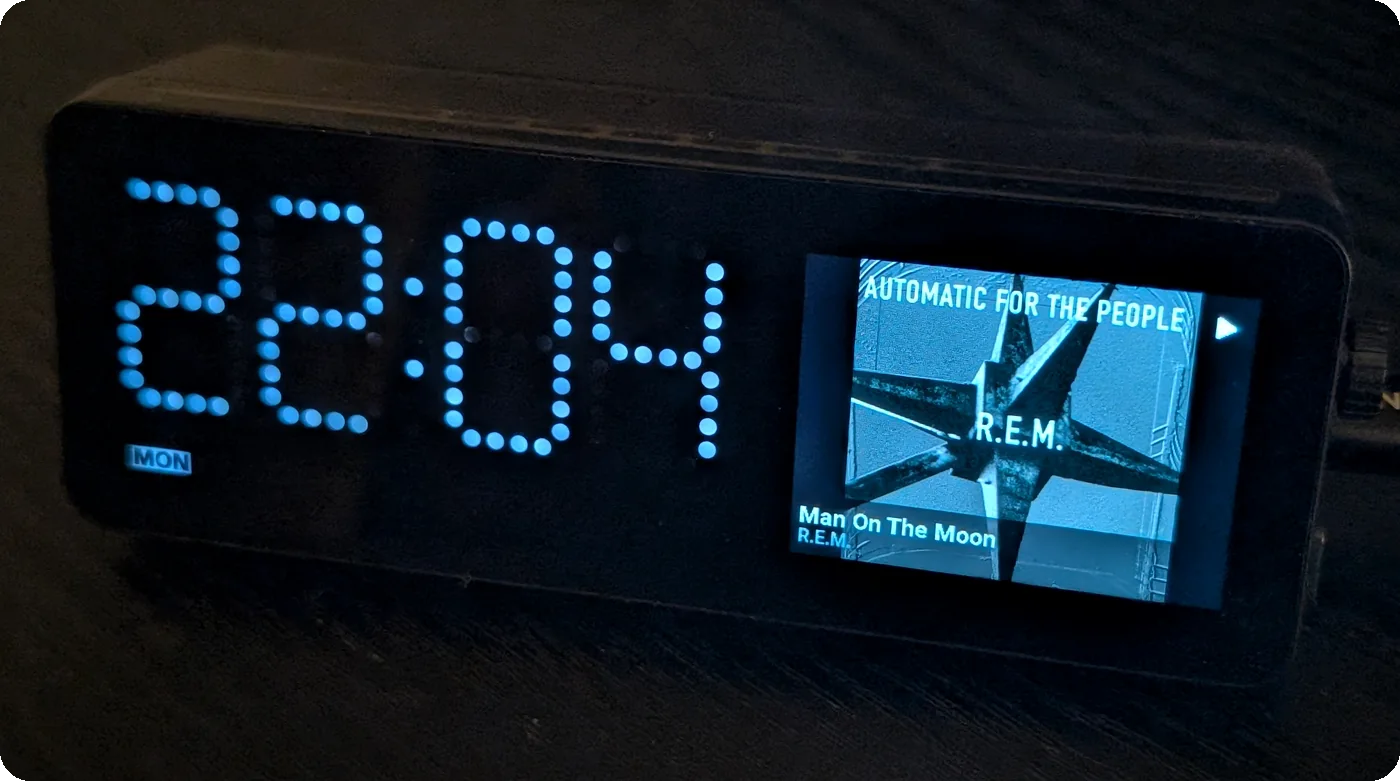
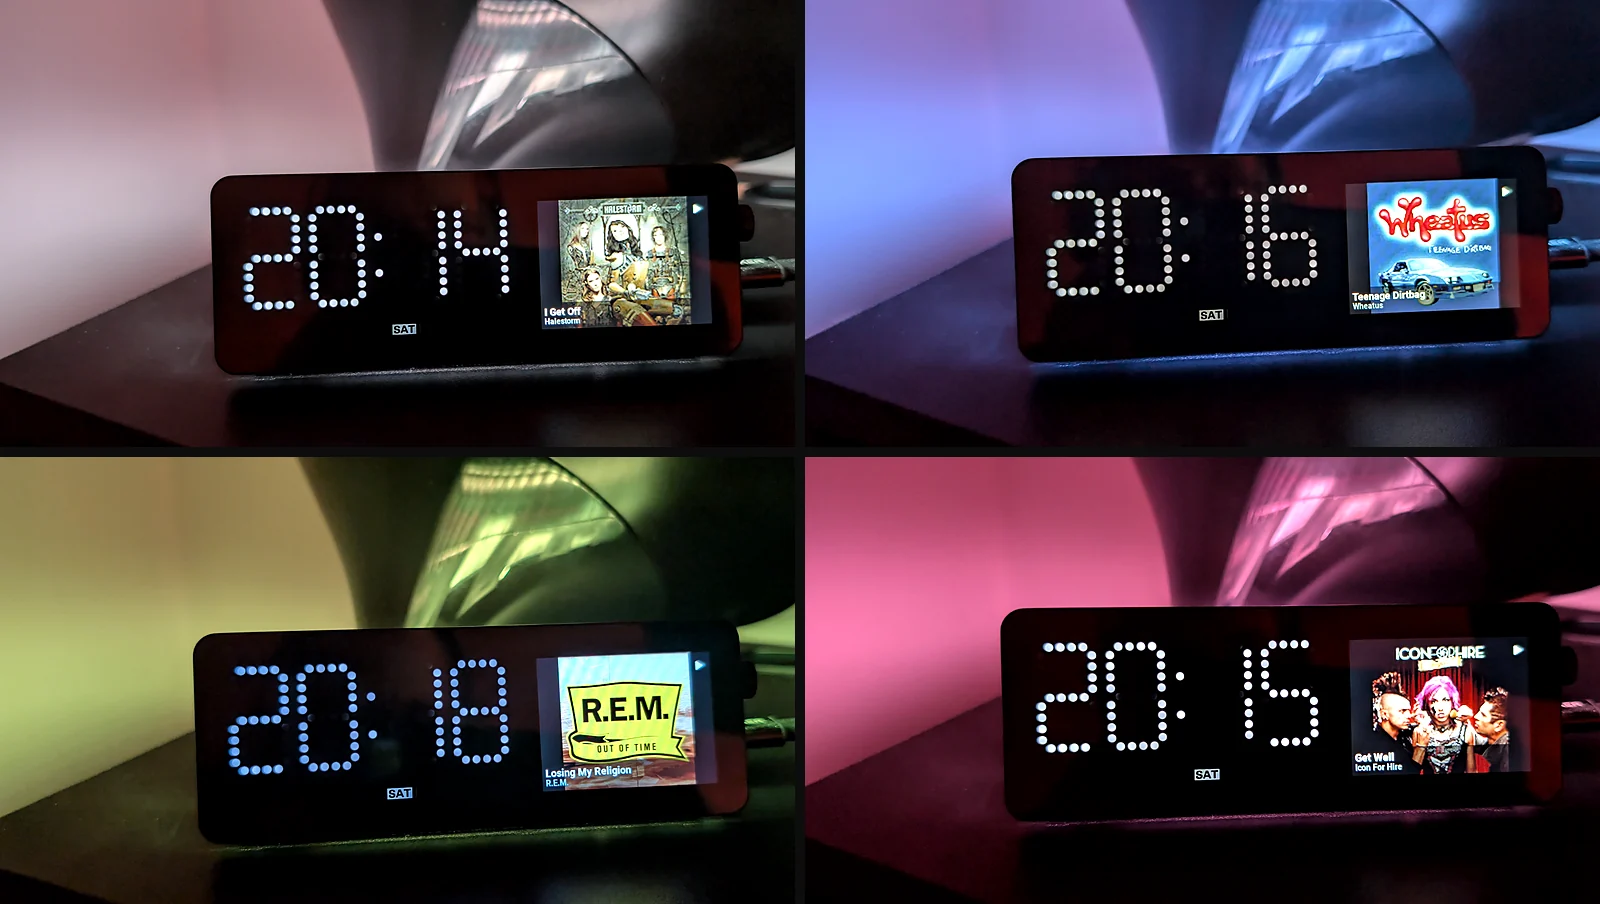
Updated readme and screenshots, added a changelog.

diff --git a/README.md b/README.md
@@ -1,10 +1,10 @@
 # Vobot Now Playing
 
-Send what Windows is playing — title, artist, album, cover art and playback state — to a
+Send what Windows is playing (title, artist, album, cover art and playback state) to a
 [Vobot Mini Dock](https://dock.myvobot.com/) sitting on your desk.
 
 <p align="center">
-  <img src="docs/images/vobot-photo.webp" alt="A Vobot Mini Dock displaying album art, track title and artist alongside the clock" width="700">
+  <img src="docs/images/vobot-photo.webp" alt="Four photos of a Vobot Mini Dock showing different album art, with the ambient light behind it picking up the dominant colour of each cover" width="860">
 </p>
 
 Windows already knows what every media player on your machine is doing. This puts that on a
@@ -14,30 +14,40 @@ little screen you can actually see, instead of buried behind whichever window is
 
 Two halves that talk over your local network:
 
-- **Windows client** (PyQt5) — watches the Windows media session, converts the cover art, and
+- **Windows client** (PyQt5) watches the Windows media session, converts the cover art, and
   pushes it to the dock over TCP.
-- **Mini Dock app** (MicroPython + LVGL) — listens on the dock, and draws what arrives.
+- **Mini Dock app** (MicroPython + LVGL) listens on the dock, and draws what arrives.
 
 The client sits in the notification area and keeps feeding the dock while its window is closed.
 
 <p align="center">
-  <img src="docs/images/screenshot-01.png" alt="The Vobot Now Playing client window showing album art, track details and connection status" width="500">
+  <img src="docs/images/screenshot-01.webp" alt="The Vobot Now Playing client window showing album art, track details, playback position, transport controls and connection status" width="500">
 </p>
 
 ## Features
 
-- Live title, artist, album and play/pause/stopped state from any player Windows knows about —
+- Live title, artist, album and play/pause/stopped state from any player Windows knows about:
   Spotify, foobar2000, browsers, whatever registers a media session.
 - Album art at 320×240, converted to RGB565 for the dock's panel.
-- **Transport controls** — previous, play/pause and next, driven from the client window.
+- **Transport controls.** Previous, play/pause and next, driven from the client window. Each
+  button is enabled only when the current source says it accepts that command.
+- **Ambient light.** The dock's LED strip can be lit with the dominant colour of the current cover
+  art. Off by default, and enabled with a brightness setting of its own. The colour is picked
+  rather than averaged, since an average comes out grey-brown for any cover with more than one hue
+  in it, and a cover with no colour in it shows white instead of being forced to a hue.
 - **Playback position** in the client window, for sources that report one. Windows publishes the
   position as an occasional timestamped snapshot rather than a running clock, so the bar is
-  extrapolated from it between updates — accurate to under a second across a minute of drift.
-- **Automatic discovery** — the client finds the dock over UDP broadcast, so there is no IP
+  extrapolated from it between updates, staying accurate to under a second across a minute of drift.
+- **Taskbar integration**, in four parts you can opt into separately: a play/pause badge on the
+  taskbar button, transport buttons on the thumbnail toolbar, cover art as the window icon, and
+  playback position on the taskbar progress bar.
+- **Automatic discovery.** The client finds the dock over UDP broadcast, so there is no IP
   address to look up on first run.
 - **Artwork is only sent once.** The client announces an artwork ID and the dock says whether it
   already has it, so a play/pause does not re-send 150KB of pixels.
 - Runs in the notification area, with optional start-hidden and close-to-tray behaviour.
+
+See [CHANGELOG.md](CHANGELOG.md) for what has changed between releases.
 
 ## Requirements
 
@@ -46,7 +56,7 @@ The client sits in the notification area and keeps feeding the dock while its wi
 | Windows | 10 (version 1809 or later) or Windows 11 |
 | Dock | Vobot Mini Dock, firmware 1.1.0 or later |
 | Network | Both on the same LAN |
-| Python | 3.13 — only if running from source |
+| Python | 3.13, only if running from source |
 
 ## Installation
 
@@ -55,27 +65,42 @@ The client sits in the notification area and keeps feeding the dock while its wi
 Download the latest `.zip` from [Releases](https://github.com/se0siris/vobot-now-playing/releases),
 unpack it anywhere, and run `Vobot Now Playing.exe`. There is no installer.
 
-The build is unsigned, so SmartScreen will warn on first launch — *More info* → *Run anyway*.
+The zip also contains the matching Mini Dock app, so both halves come from one download.
 
 ### Mini Dock app
 
-Copy `esp32/apps/win_now_playing/` to the `apps/` folder on the dock, using
+Copy the `win_now_playing/` folder to the `apps/` folder on the dock, using
 [Thonny](https://thonny.org/) or the dock's own app manager. Restart the dock and open
 **Windows Now Playing** from the app menu.
 
+It is in the release zip alongside the client, or under `esp32/apps/` if you are working from
+a clone.
+
 The app listens on TCP port **32150** by default. If you need a different port, set `port` in the
 app's settings on the dock's web interface.
+
+The two halves are versioned separately, and a mismatch is not fatal: either end works with an
+older counterpart, minus whatever that release added. The ambient light needs the client at 1.1.0
+and the dock app at 2.1.0.
 
 ## Configuration
 
 On first run the client searches the network and configures itself. If you would rather set the
 address by hand, or the search finds more than one dock, use **Settings**:
 
-- **Address / Port** — where the dock is. **Discover** searches for it; **Test Connection**
+- **Address / Port.** Where the dock is. **Discover** searches for it, and **Test Connection**
   checks it without disturbing whatever the dock is currently showing.
-- **Find the dock automatically** — re-searches when a push fails, so a new DHCP lease doesn't
+- **Find the dock automatically.** Re-searches when a push fails, so a new DHCP lease doesn't
   need your attention.
-- **Window** — keep running in the notification area when closed, and start hidden.
+- **Ambient light.** Match the dock's light to the album art, with a brightness setting.
+  Off by default: turning it on makes the dock's app take ownership of the light, which suppresses
+  whatever the device was otherwise doing with it.
+- **Taskbar.** Keep a taskbar button while hidden, use the button as a media control, show the
+  album art as the taskbar icon, and show track progress on the button. All off by default, so out
+  of the box the app keeps an ordinary taskbar button.
+- **Window.** Keep running in the notification area when closed, start hidden, and explain where
+  the window went when it hides. That last one can also be turned off by clicking the notification
+  itself.
 
 Settings live in a plain INI file you can edit directly:
 
@@ -91,7 +116,7 @@ One TCP connection per update. The client sends a single line of JSON, the dock 
 JSON acknowledgement, and the artwork body only follows if the dock asks for it:
 
 ```
-client → {"title": ..., "artist": ..., "status": "PLAYING", "art_id": "…", "image_len": 153600, "proto": 3}
+client → {"title": ..., "artist": ..., "status": "PLAYING", "art_id": "…", "image_len": 153600, "light": [220, 90, 40, 60], "proto": 4}
 dock   → {"ok": true, "send_art": true, "w": 320, "h": 240}
 client → <153,600 bytes of RGB565>
 dock   → {"ok": true}
@@ -101,9 +126,14 @@ dock   → {"ok": true}
 cheap. The dock reports its own panel geometry in `w`/`h`, so the client sizes future frames to
 whatever hardware answered rather than assuming 320×240.
 
-Discovery is a UDP broadcast on port **32151** — deliberately fixed, and not the configured TCP
-port, since a client that already knew the port would have nothing to discover. The dock replies
-with its address, the TCP port it actually bound, and its device ID.
+`light` is three-state, and the distinction matters because all three happen routinely. Absent
+means leave the light exactly as it is, `null` means release it back to the device, and
+`[r, g, b, brightness]` means take ownership and show that colour. Since an absent field is what a
+pre-4 client sends for everything, updating the dock app on its own never disturbs the light.
+
+Discovery is a UDP broadcast on port **32151**, deliberately fixed rather than following the
+configured TCP port, since a client that already knew the port would have nothing to discover. The
+dock replies with its address, the TCP port it actually bound, and its device ID.
 
 ## Building from source
 
@@ -113,6 +143,13 @@ Uses [uv](https://docs.astral.sh/uv/) for dependencies.
 uv sync                                 # install dependencies
 uv run python vobot_now_playing.py      # run the client
 uv run pyinstaller pyinstaller.spec     # build dist/Vobot Now Playing/
+```
+
+Linting and formatting use [ruff](https://docs.astral.sh/ruff/):
+
+```bash
+uv run ruff check                       # lint
+uv run ruff format                      # format
 ```
 
 Regenerating UI code after editing a form in Qt Designer:
@@ -132,16 +169,17 @@ release; the tag must match `VERSION_NUMBER` in `constants.py` or the build stop
 vobot_now_playing.py            Entry point
 device_link.py                  Wire protocol
 discovery.py                    UDP discovery
-media_image.py                  Artwork selection and RGB565 packing
+media_image.py                  Artwork selection, RGB565 packing, colour extraction
 settings.py                     Persisted settings
 ui/                             Windows client UI
+ui/taskbar.py                   Taskbar button, badge, thumbnail toolbar
 esp32/apps/win_now_playing/     The Mini Dock app
 ```
 
 ## Licence
 
-The **Windows client is GPL v3** — see [LICENSE](LICENSE). This follows from PyQt5, which is
-itself GPL v3, so anything distributed with it must be too.
+The **Windows client is GPL v3**, as set out in [LICENSE](LICENSE). This follows from PyQt5, which
+is itself GPL v3, so anything distributed with it must be too.
 
 The **Mini Dock app** under `esp32/` is **MIT**, matching the convention of the other apps in the
 Vobot ecosystem so it can be freely borrowed from. It is a separate program that links none of the
@@ -149,7 +187,7 @@ client's dependencies.
 
 ## Author
 
-Gary Hughes — [github.com/se0siris](https://github.com/se0siris)
+Gary Hughes, [github.com/se0siris](https://github.com/se0siris)
 
 Not affiliated with Vobot. Bug reports and pull requests are welcome on the
 [issue tracker](https://github.com/se0siris/vobot-now-playing/issues).

diff --git a/CHANGELOG.md b/CHANGELOG.md
@@ -1,0 +1,73 @@
+# Changelog
+
+Notable changes to both halves of the project.
+
+The Windows client and the Mini Dock app are versioned separately. The client follows the `vX.Y.Z`
+tags on this repository; the dock app carries its own version in
+`esp32/apps/win_now_playing/manifest.yml`.
+
+## [1.1.0] - 2026-08-16
+
+Mini Dock app **2.1.0**. Wire protocol **4**.
+
+Both ends stay compatible with the previous release. A 1.0.0 client simply never sends the new
+`light` field, which the dock reads as "leave the ambient light alone", and an older dock app
+ignores it. The ambient light itself needs both halves updated.
+
+### Added
+
+- **Ambient light.** The dock's LED strip can be driven from the dominant colour of the current
+  cover art. Off by default; enable it and set a brightness in **Settings**. The colour is not an
+  average, which comes out grey-brown for any cover with more than one hue in it. The image is
+  reduced to eight clusters, the ones carrying no colour information are dropped, and what is left
+  competes on both how much of the cover it occupies and how colourful it is. Covers with no colour
+  at all show white rather than being forced to a hue they do not have.
+- **Playback position** in the client window, for sources that report one. Windows publishes the
+  position as an occasional timestamped snapshot rather than a running clock, so the bar is
+  extrapolated between updates. Measured against Edge, that stays accurate to under half a second
+  across a full minute of drift.
+- **Transport controls** in the client window: previous, play/pause and next, with each button
+  enabled only when the current source says it accepts that command.
+- **Taskbar integration**, all four parts off by default and opted into separately in **Settings**:
+  a play/pause status badge on the taskbar button, transport buttons on the thumbnail toolbar,
+  cover art as the window and taskbar icon, and playback position on the taskbar progress bar.
+  There is also an option to keep the taskbar button when the window is hidden, since a hidden
+  window has no taskbar button and would otherwise take the other three with it.
+- **The tray notification can be turned off.** Clicking the "still running in the notification
+  area" balloon now stops it appearing again.
+
+### Changed
+
+- **Artwork selection is much more reliable.** Sources publish artwork in phases rather than all at
+  once, and the version worth showing is often on offer for well under a second. The client now
+  ranks every image a track serves, so a small player-bar thumbnail cannot displace a full-size
+  cover already in hand, and the previous track's artwork cannot squat for a whole song. While the
+  only artwork available still belongs to the track that just ended, the dock is left showing what
+  it already has instead of being sent a leftover, and the client's own preview dims to mark it as
+  provisional.
+- **Frame transfers to the dock are several times faster.** The dock now reads each frame straight
+  into a slice of its back buffer rather than into fresh objects it then copies. Measured over WiFi
+  at -50dBm, this took a frame from 2-5 seconds down to around 430ms. The saving is in garbage
+  collection, not the network: the old path produced roughly 150KB of garbage per frame, and a
+  collection on this hardware costs 200-280ms.
+- Thumbnail reading now uses context managers throughout, so a stream is closed even when a read
+  fails partway.
+- Added [ruff](https://docs.astral.sh/ruff/) for linting and formatting, and brought the codebase
+  in line with it.
+
+### Fixed
+
+- The discovery socket is now closed when a search fails, rather than being left open.
+
+## [1.0.0] - 2026-08-10
+
+First tagged release. Mini Dock app **2.0.0**. Wire protocol **3**.
+
+- Live title, artist, album and playback state from any player Windows knows about.
+- Album art converted to RGB565 and drawn on the dock's panel.
+- Automatic discovery of the dock over UDP broadcast.
+- Artwork sent only once per image, via an artwork ID handshake.
+- Runs in the notification area, with optional start-hidden and close-to-tray behaviour.
+
+[1.1.0]: https://github.com/se0siris/vobot-now-playing/releases/tag/v1.1.0
+[1.0.0]: https://github.com/se0siris/vobot-now-playing/releases/tag/v1.0.0
